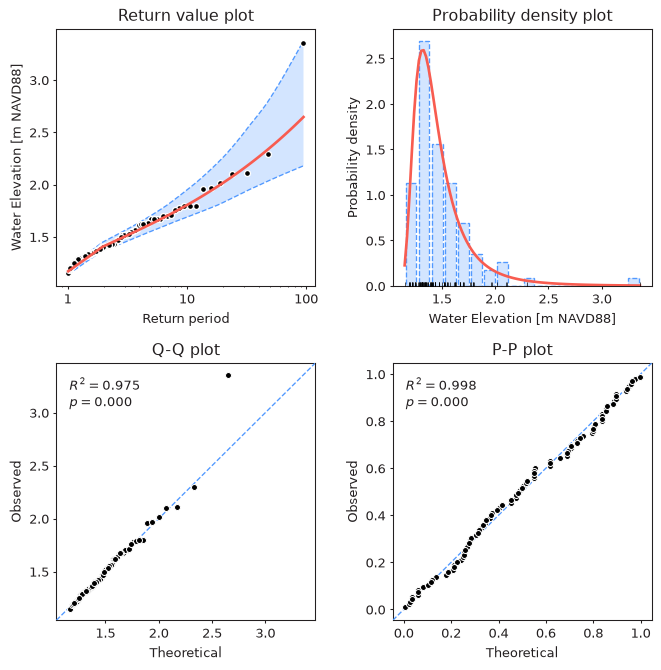
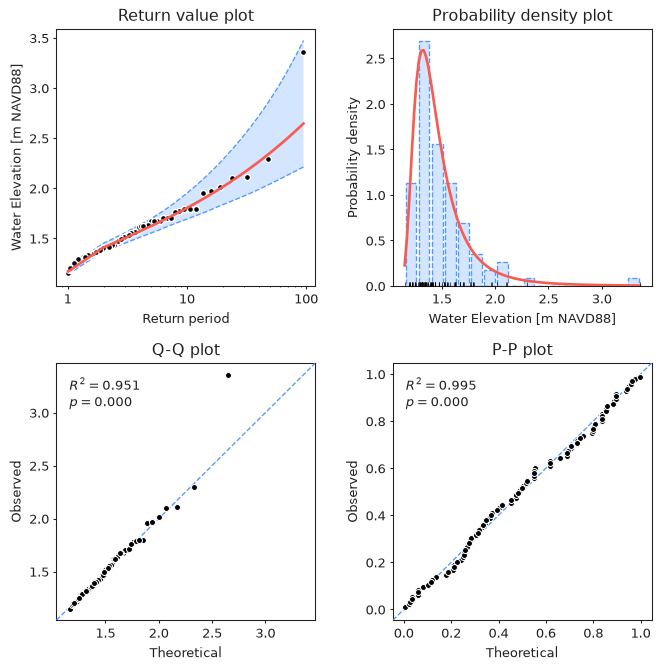
Group Home pages, fix image paths, and refresh R² figures
- Home tab now holds the pyextremes landing page and Quick Start.
- Image paths in raw HTML figures were resolved relative to the page URL
  one level too deep, so all user guide images 404'd on the live site.
  Figures now use markdown images inside md_in_html figures, with paths
  relative to the source file.
- Regenerate figures showing R² on probability plots (fixed in #122) and
  host the Quick Start figures locally.

diff --git a/docs/user-guide/14-diagnostic-plots.md b/docs/user-guide/14-diagnostic-plots.md
@@ -16,8 +16,8 @@ model.fit_model()
 model.plot_diagnostic(alpha=0.95)
 ```
 
-<figure>
-  <img src="../../img/results/pot-diagnostic.png" alt="Diagnostic plot for POT extremes"/>
+<figure markdown="span">
+  ![Diagnostic plot for POT extremes](../img/results/pot-diagnostic.png)
 </figure>
 
 ??? note
@@ -104,8 +104,8 @@ see when comparing GEVD and Gumbel fitted to the annual maxima
 model.plot_probability(plot_type="QQ")
 ```
 
-<figure>
-  <img src="../../img/results/qq-gev-vs-gumbel.png" alt="Q-Q plots for GEVD and Gumbel"/>
+<figure markdown="span">
+  ![Q-Q plots for GEVD and Gumbel](../img/results/qq-gev-vs-gumbel.png)
 </figure>
 
 The Gumbel distribution can't represent the heavy upper tail of these data,
@@ -124,8 +124,8 @@ distribution function (horizontal axis):
 model.plot_probability(plot_type="PP")
 ```
 
-<figure>
-  <img src="../../img/results/pp-gev-vs-gumbel.png" alt="P-P plots for GEVD and Gumbel"/>
+<figure markdown="span">
+  ![P-P plots for GEVD and Gumbel](../img/results/pp-gev-vs-gumbel.png)
 </figure>
 
 All probabilities are in the range [0, 1], so the P-P plot emphasizes the center
@@ -134,9 +134,10 @@ a mild departure from the diagonal in the middle of the distribution, nothing
 like the clear misfit of the largest values visible in its Q-Q plot.
 
 !!! note
-    The number in the top left corner of the Q-Q and P-P plots is the Pearson
-    correlation coefficient between the theoretical and observed values
-    (labeled $R^2$), and $p$ is the p-value of the test for zero correlation.
+    The numbers in the top left corner of the Q-Q and P-P plots are the
+    coefficient of determination $R^2$ (the square of the Pearson correlation
+    coefficient between the theoretical and observed values) and the p-value $p$
+    of the test for zero correlation.
     These numbers measure how well the points line up, not how close they are to
     the diagonal, and a small $p$ only means that the points are correlated.
     They are not a goodness-of-fit test - see [Goodness of Fit](15-goodness-of-fit.md).

diff --git a/docs/user-guide/5-threshold-selection.md b/docs/user-guide/5-threshold-selection.md
@@ -31,8 +31,8 @@ from pyextremes import plot_mean_residual_life
 plot_mean_residual_life(data)
 ```
 
-<figure>
-  <img src="../../img/extremes/mean-residual-life-high.png" alt="Mean Residual Life plot"/>
+<figure markdown="span">
+  ![Mean Residual Life plot](../img/extremes/mean-residual-life-high.png)
 </figure>
 
 ??? note
@@ -105,8 +105,8 @@ from pyextremes import plot_parameter_stability
 plot_parameter_stability(data)
 ```
 
-<figure>
-  <img src="../../img/extremes/parameter-stability.png" alt="Parameter Stability plot"/>
+<figure markdown="span">
+  ![Parameter Stability plot](../img/extremes/parameter-stability.png)
 </figure>
 
 As seen in the figure above, these parameters appear to stabilize around threshold
@@ -158,8 +158,8 @@ plot_return_value_stability(
 )
 ```
 
-<figure>
-  <img src="../../img/extremes/return-value-stability.png" alt="Return Value Stability plot"/>
+<figure markdown="span">
+  ![Return Value Stability plot](../img/extremes/return-value-stability.png)
 </figure>
 
 As seen in the figure above, the model is very stable for threshold values above 1.4.
@@ -226,8 +226,8 @@ plot_threshold_stability(
 )
 ```
 
-<figure>
-  <img src="../../img/extremes/threshold-stability.png" alt="Threshold Stability plot"/>
+<figure markdown="span">
+  ![Threshold Stability plot](../img/extremes/threshold-stability.png)
 </figure>
 
 Based on the figures shown earlier, one may conclude that the valid threshold may lie
@@ -267,6 +267,6 @@ The `plot_threshold_stability` function uses the following parameters:
 
 Results of selecting the threshold value 1.5 are shown below:
 
-<figure>
-  <img src="../../img/extremes/selected-threshold-diagnostic.png" alt="Diagnostic plot"/>
+<figure markdown="span">
+  ![Diagnostic plot](../img/extremes/selected-threshold-diagnostic.png)
 </figure>

diff --git a/docs/user-guide/4-peaks-over-threshold.md b/docs/user-guide/4-peaks-over-threshold.md
@@ -11,8 +11,8 @@ The POT extreme values asymptotically follow the
 family, according to the
 [Pickands–Balkema–De Haan theorem](https://en.wikipedia.org/wiki/Pickands%E2%80%93Balkema%E2%80%93De_Haan_theorem).
 
-<figure>
-  <img src="../../img/pot.png" alt="Peaks Over Threshold extremes"/>
+<figure markdown="span">
+  ![Peaks Over Threshold extremes](../img/pot.png)
 </figure>
 
 ## Extracting Extremes
@@ -57,8 +57,8 @@ provided to the `get_extremes` function (`r` defaults to 24 hours):
     model.plot_extremes(show_clusters=True)
     ```
 
-<figure>
-  <img src="../../img/extremes/pot-high-12H.png" alt="Peaks Over Threshold extremes 12 hours"/>
+<figure markdown="span">
+  ![Peaks Over Threshold extremes 12 hours](../img/extremes/pot-high-12H.png)
 </figure>
 
 ??? note
@@ -155,8 +155,8 @@ extracted from the same data and using the same threshold as above, but with a l
     model.plot_extremes(show_clusters=True)
     ```
 
-<figure>
-  <img src="../../img/extremes/pot-high-24H.png" alt="Peaks Over Threshold extremes 24 hours"/>
+<figure markdown="span">
+  ![Peaks Over Threshold extremes 24 hours](../img/extremes/pot-high-24H.png)
 </figure>
 
 !!! tip
@@ -206,8 +206,8 @@ by setting the `extremes_type` argument to `#!python "low"`:
     model.plot_extremes(show_clusters=True)
     ```
 
-<figure>
-  <img src="../../img/extremes/pot-low.png" alt="Peaks Below Threshold extremes"/>
+<figure markdown="span">
+  ![Peaks Below Threshold extremes](../img/extremes/pot-low.png)
 </figure>
 
 !!! tip

diff --git a/docs/user-guide/3-block-maxima.md b/docs/user-guide/3-block-maxima.md
@@ -8,8 +8,8 @@ family, according to the
 This theorem demonstrates that the GEVD family is the only possible
 non-degenerate limit for the block maxima extreme values.
 
-<figure>
-  <img src="../../img/bm.png" alt="Block Maxima extremes"/>
+<figure markdown="span">
+  ![Block Maxima extremes](../img/bm.png)
 </figure>
 
 ## Extracting Extremes
@@ -53,8 +53,8 @@ parameters of the `get_extremes` function:
     model.plot_extremes()
     ```
 
-<figure>
-  <img src="../../img/extremes/bm-high-1y.png" alt="Block Maxima extremes"/>
+<figure markdown="span">
+  ![Block Maxima extremes](../img/extremes/bm-high-1y.png)
 </figure>
 
 ??? note
@@ -171,8 +171,8 @@ data as above but with a block size of 2 years we get:
     model.plot_extremes()
     ```
 
-<figure>
-  <img src="../../img/extremes/bm-high-2y.png" alt="Block Maxima extremes 2 years"/>
+<figure markdown="span">
+  ![Block Maxima extremes 2 years](../img/extremes/bm-high-2y.png)
 </figure>
 
 ## Block Minima
@@ -206,8 +206,8 @@ to `#!python "low"`:
     model.plot_extremes()
     ```
 
-<figure>
-  <img src="../../img/extremes/bm-low-1y.png" alt="Block Minima extremes"/>
+<figure markdown="span">
+  ![Block Minima extremes](../img/extremes/bm-low-1y.png)
 </figure>
 
 !!! tip

diff --git a/docs/user-guide/13-confidence-intervals.md b/docs/user-guide/13-confidence-intervals.md
@@ -70,8 +70,8 @@ their confidence intervals. The figure below shows the 100-year water level
 and its 95% confidence interval for GEVD fitted to the annual maxima using
 three different models:
 
-<figure>
-  <img src="../../img/results/ci-models.png" alt="100-year return value confidence intervals for different models"/>
+<figure markdown="span">
+  ![100-year return value confidence intervals for different models](../img/results/ci-models.png)
 </figure>
 
 ??? example "Code used to produce the figure above"
@@ -123,8 +123,8 @@ Bootstrap confidence intervals are estimated from a finite number of random
 samples, so the bounds themselves are uncertain. The figure below shows how the
 bounds of the 100-year water level change as `n_samples` increases:
 
-<figure>
-  <img src="../../img/results/ci-n-samples.png" alt="Confidence interval bounds vs. number of bootstrap samples"/>
+<figure markdown="span">
+  ![Confidence interval bounds vs. number of bootstrap samples](../img/results/ci-n-samples.png)
 </figure>
 
 | `n_samples` | Lower bound | Upper bound |

diff --git a/docs/user-guide/10-mcmc.md b/docs/user-guide/10-mcmc.md
@@ -149,8 +149,8 @@ choose the burn-in value:
 model.plot_trace()
 ```
 
-<figure>
-  <img src="../../img/models/mcmc-trace.png" alt="MCMC trace plot"/>
+<figure markdown="span">
+  ![MCMC trace plot](../img/models/mcmc-trace.png)
 </figure>
 
 Each black line is a walker and the red dashed line is the MAP estimate.
@@ -180,8 +180,8 @@ and the joint distributions of each pair of parameters (off-diagonal):
 model.plot_corner(burn_in=200, levels=5)
 ```
 
-<figure>
-  <img src="../../img/models/mcmc-corner.png" alt="MCMC corner plot"/>
+<figure markdown="span">
+  ![MCMC corner plot](../img/models/mcmc-corner.png)
 </figure>
 
 The posterior of the shape parameter lies almost entirely below zero,
@@ -243,8 +243,8 @@ model.plot_return_values(
 )
 ```
 
-<figure>
-  <img src="../../img/models/mcmc-return-values.png" alt="MCMC return values"/>
+<figure markdown="span">
+  ![MCMC return values](../img/models/mcmc-return-values.png)
 </figure>
 
 The return values are very close to those obtained using [MLE](9-mle.md),

diff --git a/docs/quickstart.md b/docs/quickstart.md
@@ -120,8 +120,8 @@ In this example extremes will be extracted using the BM `method` and 1-year
 model.plot_extremes()
 ```
 
-<figure>
-  <img src="https://raw.githubusercontent.com/georgebv/pyextremes-notebooks/master/notebooks/documentation/documentation%20figures/index%20extremes.png" alt="Block Maxima extremes"/>
+<figure markdown="span">
+  ![Block Maxima extremes](img/quickstart/extremes.png)
 </figure>
 
 ---
@@ -217,8 +217,8 @@ One way to do that is by visually inspecting the model:
 model.plot_diagnostic(alpha=0.95)
 ```
 
-<figure>
-  <img src="https://raw.githubusercontent.com/georgebv/pyextremes-notebooks/master/notebooks/documentation/documentation%20figures/index%20diagnostic.png" alt="Diagnostic plot"/>
+<figure markdown="span">
+  ![Diagnostic plot](img/quickstart/diagnostic.png)
 </figure>
 
 ---

diff --git a/docs/user-guide/8-distributions.md b/docs/user-guide/8-distributions.md
@@ -70,8 +70,8 @@ For the annual maxima of the Battery water levels, GEVD is clearly preferred:
 | `genextreme` | -29.786 |
 | `gumbel_r`   | -17.695 |
 
-<figure>
-  <img src="../../img/models/bm-gev-vs-gumbel.png" alt="GEVD vs Gumbel return values"/>
+<figure markdown="span">
+  ![GEVD vs Gumbel return values](../img/models/bm-gev-vs-gumbel.png)
 </figure>
 
 For the POT extremes above a threshold of 1.5 m (`#!python r="24h"`, see
@@ -83,8 +83,8 @@ but GPD is still preferred:
 | `genpareto`  | -42.985 |
 | `expon`      | -41.776 |
 
-<figure>
-  <img src="../../img/models/pot-gpd-vs-expon.png" alt="GPD vs Exponential return values"/>
+<figure markdown="span">
+  ![GPD vs Exponential return values](../img/models/pot-gpd-vs-expon.png)
 </figure>
 
 ??? example "Code used to produce the figures above"

diff --git a/docs/user-guide/2-extreme-value-types.md b/docs/user-guide/2-extreme-value-types.md
@@ -24,8 +24,8 @@ a single maximum value (thus, block maxima). The resulting BM time series are th
 to model extreme value behavior using the GEVD model family.
 See figure below illustrating this concept:
 
-<figure>
-  <img src="../../img/bm.png" alt="Block Maxima extremes"/>
+<figure markdown="span">
+  ![Block Maxima extremes](../img/bm.png)
 </figure>
 
 ## Peaks Over Threshold
@@ -41,8 +41,8 @@ pyextremes provides a series of tools which help with threshold selection,
 these are described further in this tutorial.
 See figure below illustrating POT extremes:
 
-<figure>
-  <img src="../../img/pot.png" alt="Peaks Over Threshold extremes"/>
+<figure markdown="span">
+  ![Peaks Over Threshold extremes](../img/pot.png)
 </figure>
 
 ## Which Method to Use

diff --git a/docs/user-guide-advanced/1-extreme-low-values.md b/docs/user-guide-advanced/1-extreme-low-values.md
@@ -27,8 +27,8 @@ transformer.transformed_extremes  # reflected extremes
 transformer.transform(-2.0)  # transform any value in either direction
 ```
 
-<figure>
-  <img src="../../img/advanced/low-transformation.png" alt="Block minima and their transformation"/>
+<figure markdown="span">
+  ![Block minima and their transformation](../img/advanced/low-transformation.png)
 </figure>
 
 ??? note
@@ -141,8 +141,8 @@ model.plot_return_values(
 )
 ```
 
-<figure>
-  <img src="../../img/advanced/bm-low-return-values.png" alt="Return values of block minima"/>
+<figure markdown="span">
+  ![Return values of block minima](../img/advanced/bm-low-return-values.png)
 </figure>
 
 !!! warning "Confidence interval columns"

diff --git a/docs/user-guide/9-mle.md b/docs/user-guide/9-mle.md
@@ -155,14 +155,14 @@ model.plot_return_values(
 
 === "Block Maxima"
 
-    <figure>
-      <img src="../../img/models/bm-mle-return-values.png" alt="MLE return values for Block Maxima"/>
+    <figure markdown="span">
+      ![MLE return values for Block Maxima](../img/models/bm-mle-return-values.png)
     </figure>
 
 === "Peaks Over Threshold"
 
-    <figure>
-      <img src="../../img/models/pot-mle-return-values.png" alt="MLE return values for Peaks Over Threshold"/>
+    <figure markdown="span">
+      ![MLE return values for Peaks Over Threshold](../img/models/pot-mle-return-values.png)
     </figure>
 
 !!! tip "Return periods shorter than the extremes rate"

diff --git a/docs/user-guide/15-goodness-of-fit.md b/docs/user-guide/15-goodness-of-fit.md
@@ -10,8 +10,8 @@ The [Kolmogorov-Smirnov test](https://en.wikipedia.org/wiki/Kolmogorov%E2%80%93S
 extreme values with the CDF of the fitted distribution. The test statistic $D$ is
 the largest vertical distance between the two:
 
-<figure>
-  <img src="../../img/results/ks-ecdf.png" alt="Empirical and model CDF with the KS statistic"/>
+<figure markdown="span">
+  ![Empirical and model CDF with the KS statistic](../img/results/ks-ecdf.png)
 </figure>
 
 If $D$ is larger than a critical value, which depends on the number of
